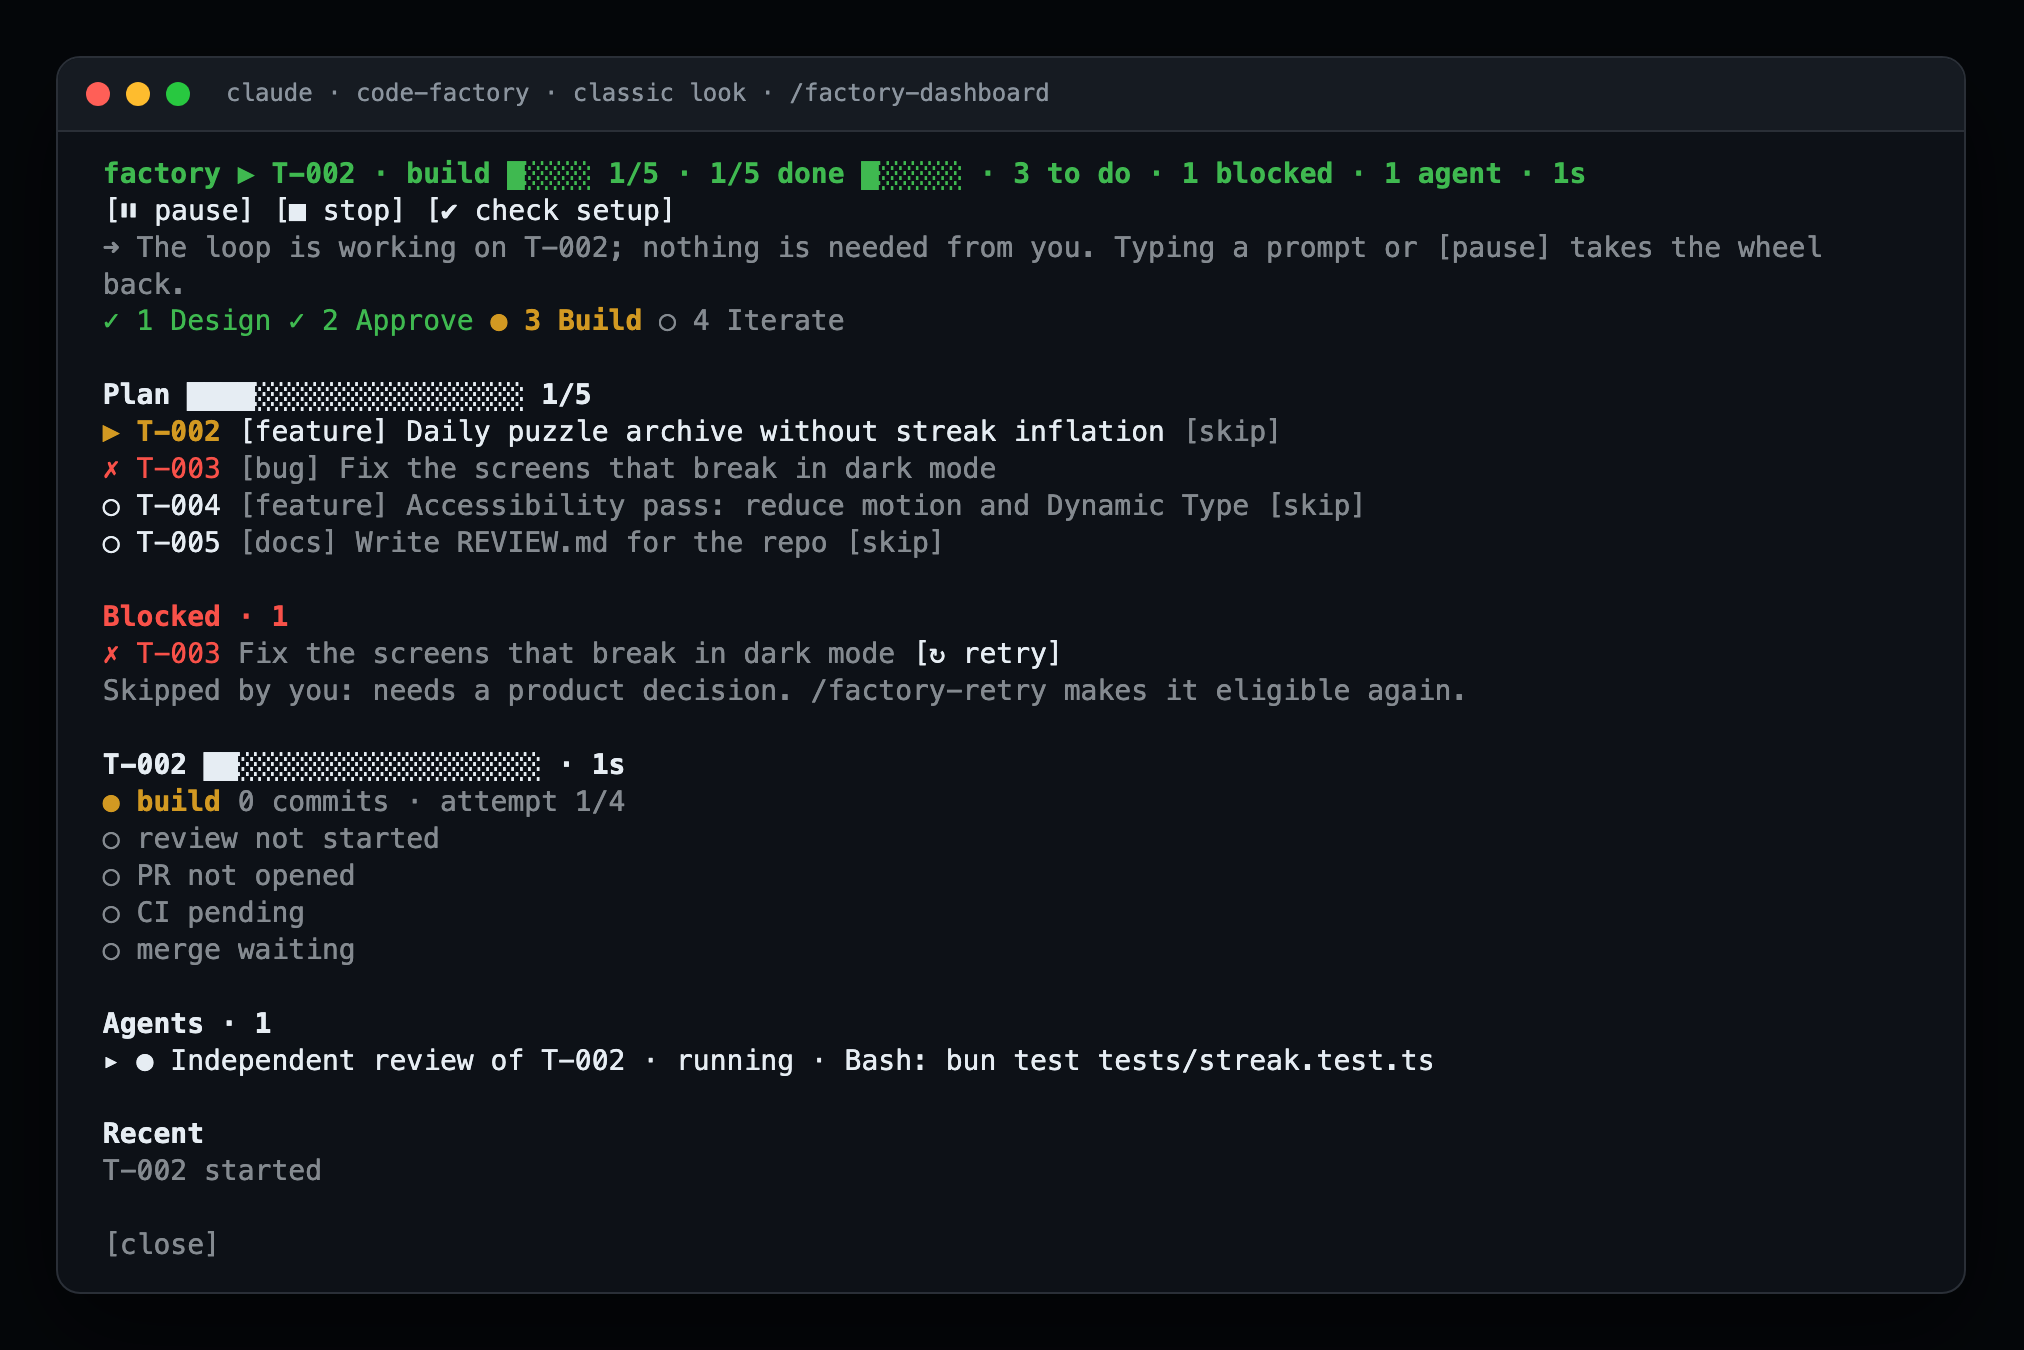
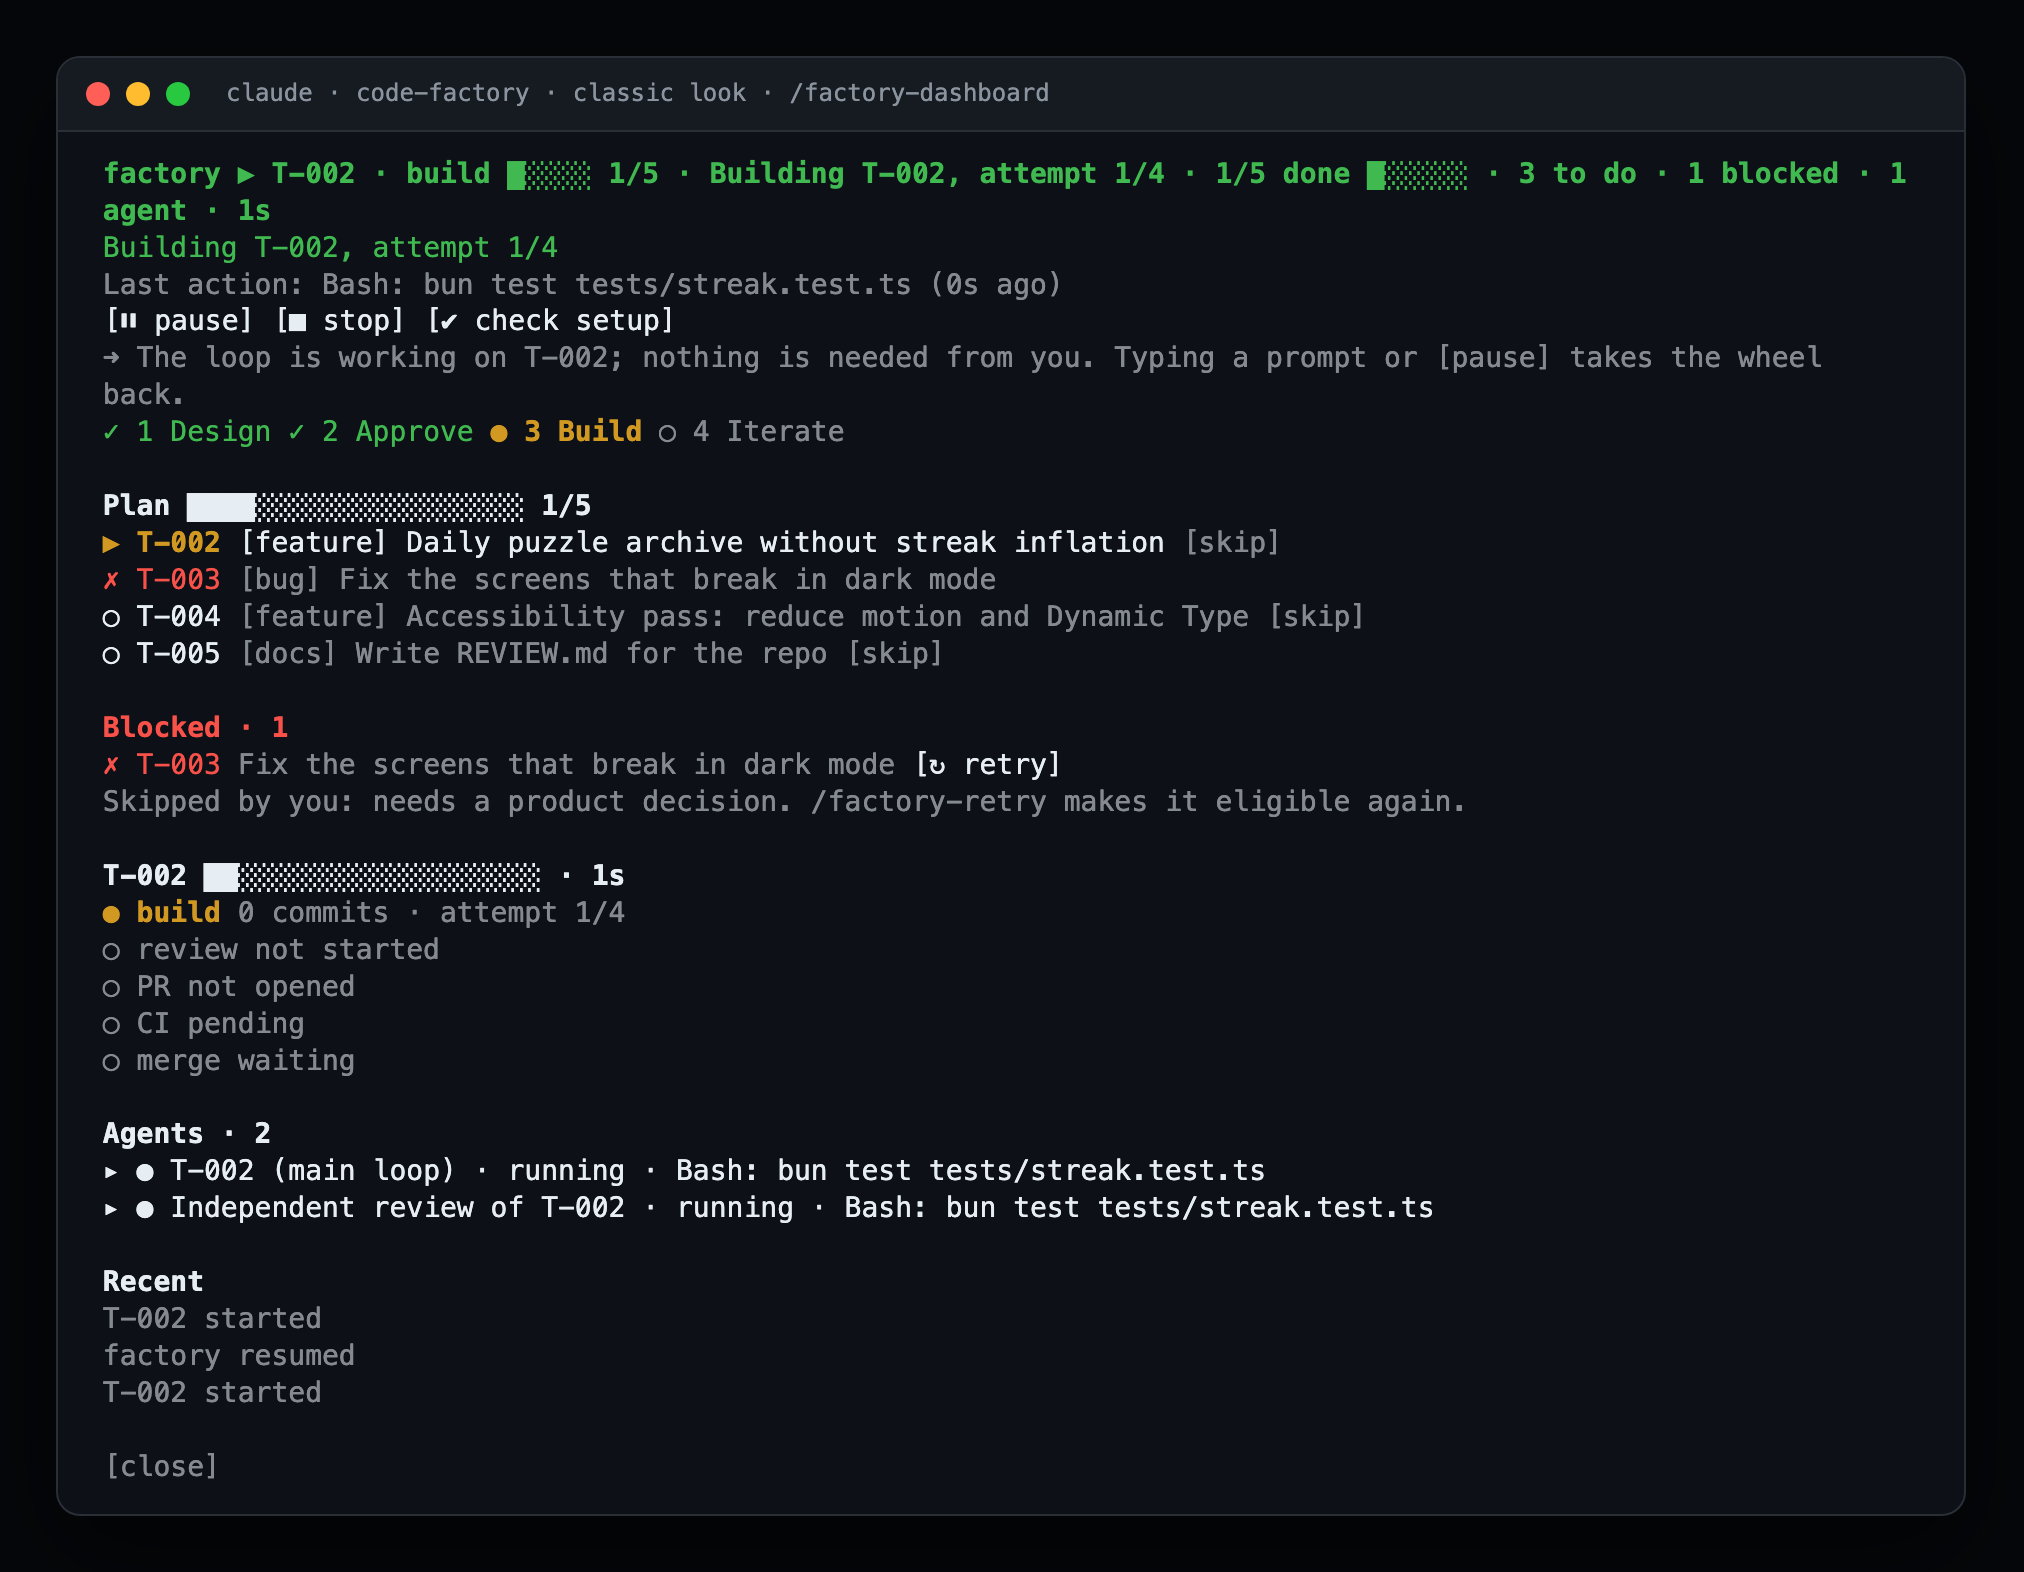
T-008: regenerate the README screenshots (0.4.8)
demo-capture.ts mounts a scene per state (running, held, stuck), driving a real factory turn and a 5-minute clock advance, and asserts in the demo test copy that the now line, last-action line, hold line and stuck line appear in each found element tree. New images: band-hold, band-stuck, pane-hold, pane-stuck; the other seven are regenerated from current code (30x12 Vox face). demo-shots.sh reads test output from a file (a pipe interleaved long lines and truncated a scene). README captions and Vox paragraph describe the now line, the why-idle line and the pointer gaze. Version 0.4.8 with CHANGELOG.

Claude-Session: https://claude.ai/code/session_0172poSrSAJ1RTYWZTePe2NU

diff --git a/scripts/demo-capture.ts b/scripts/demo-capture.ts
@@ -1,4 +1,4 @@
-type Scene = { name: string; component: 'AbovePrompt' | 'Pane'; surface: 'terminal' | 'desktop'; columns: number; look: 'hacker' | 'classic'; press?: string }
+type Scene = { name: string; component: 'AbovePrompt' | 'Pane'; surface: 'terminal' | 'desktop'; columns: number; look: 'hacker' | 'classic'; mode: 'run' | 'stuck' | 'hold'; press?: string }
 
 const DEMO_LOG = [
   { role: 'user', text: 'Review the branch for T-002: streaks must not grow when an old puzzle is replayed', toolUses: [] },
@@ -7,22 +7,55 @@ const DEMO_LOG = [
   { role: 'assistant', text: '', toolUses: [{ tool: 'Bash', input: { command: 'bun test tests/streak.test.ts' }, text: '12 pass, 0 fail' }] },
 ]
 
+const DEMO_MAIN = [{ role: 'assistant', text: '', toolUses: [{ tool: 'Bash', input: { command: 'bun test tests/streak.test.ts' }, text: '12 pass, 0 fail' }] }]
+
 const SCENES: Scene[] = [
-  { name: 'band-hacker', component: 'AbovePrompt', surface: 'terminal', columns: 130, look: 'hacker' },
-  { name: 'band-classic', component: 'AbovePrompt', surface: 'terminal', columns: 130, look: 'classic' },
-  { name: 'pane-hacker', component: 'Pane', surface: 'terminal', columns: 110, look: 'hacker' },
-  { name: 'pane-classic', component: 'Pane', surface: 'terminal', columns: 110, look: 'classic' },
-  { name: 'pane-agent', component: 'Pane', surface: 'terminal', columns: 110, look: 'hacker', press: 'agent-rev1' },
-  { name: 'pane-desktop', component: 'Pane', surface: 'desktop', columns: 110, look: 'hacker' },
+  { name: 'band-hacker', component: 'AbovePrompt', surface: 'terminal', columns: 130, look: 'hacker', mode: 'run' },
+  { name: 'band-classic', component: 'AbovePrompt', surface: 'terminal', columns: 130, look: 'classic', mode: 'run' },
+  { name: 'band-hold', component: 'AbovePrompt', surface: 'terminal', columns: 130, look: 'hacker', mode: 'hold' },
+  { name: 'band-stuck', component: 'AbovePrompt', surface: 'terminal', columns: 130, look: 'hacker', mode: 'stuck' },
+  { name: 'pane-hacker', component: 'Pane', surface: 'terminal', columns: 110, look: 'hacker', mode: 'run' },
+  { name: 'pane-classic', component: 'Pane', surface: 'terminal', columns: 110, look: 'classic', mode: 'run' },
+  { name: 'pane-agent', component: 'Pane', surface: 'terminal', columns: 110, look: 'hacker', mode: 'run', press: 'agent-rev1' },
+  { name: 'pane-desktop', component: 'Pane', surface: 'desktop', columns: 110, look: 'hacker', mode: 'run' },
+  { name: 'pane-hold', component: 'Pane', surface: 'terminal', columns: 110, look: 'hacker', mode: 'hold' },
+  { name: 'pane-stuck', component: 'Pane', surface: 'terminal', columns: 110, look: 'hacker', mode: 'stuck' },
 ]
+
+const NOW = /Building T-002, attempt 1\/\d+/
+const LAST = /Last action: Bash: bun test tests\/streak\.test\.ts/
+const STUCK = /no progress for 5 min: wait, or \/factory-pause/
+const HOLD = [/1 item blocked: T-003/, /\/factory-retry T-003/]
+
+function expected(s: Scene): RegExp[] {
+  if (s.mode === 'hold') return HOLD
+  const pane = s.component === 'Pane' && !s.press
+  if (s.mode === 'stuck') return pane ? [NOW, LAST, STUCK] : [NOW, STUCK]
+  return pane ? [NOW, LAST] : [NOW]
+}
 
 for (const s of SCENES) {
   test(`capture ${s.name}`, async ($, on) => {
-    fixture($, on, { blocked: ['T-003'], agents: [REVIEWER], messages: { rev1: DEMO_LOG }, store: { 'ui/theme': { name: s.look } }, claudeTheme: 'dark' })
-    await $.command.run({ command: 'factory-status' } as never)
+    const running = s.mode !== 'hold'
+    const clock = fixture($, on, { blocked: ['T-003'], agents: [REVIEWER], messages: { rev1: DEMO_LOG, main: DEMO_MAIN }, store: { 'ui/theme': { name: s.look } }, claudeTheme: 'dark', autopilot: false, persist: true })
+    on('prompt.submit', (_: unknown, e: { text: string }) => ({ text: e.text }))
+    on('prompt.compose', () => ({ sections: [] }))
+    on('turn.start', (_: unknown, e: { turnId: string }) => ({ turnId: e.turnId }))
+    on('tool.call', () => ({ result: 'ran', text: 'ran' }))
     await $.command.run({ command: 'factory-theme' } as never)
+    if (running) {
+      await $.command.run({ command: 'factory-start' } as never)
+      await clock.advance(1000)
+      await $.turn.start({ turnId: 't1', text: 'CODE FACTORY: work item' } as never)
+      await $.tool.call({ tool: 'Read', file_path: '/work/a.ts' })
+      if (s.mode === 'stuck') await clock.advance(5 * 60000 + 2000)
+    }
+    await $.command.run({ command: 'factory-status' } as never)
     const ui = await $.ui.mount({ plugin: 'code-factory', surface: s.surface, component: s.component, ...(s.component === 'Pane' ? { requestId: 'factory' } : {}), props: { hasSurvey: false, bodyColumns: s.columns } } as never)
     if (s.press) await ui.press({ key: s.press })
+    for (const re of expected(s)) {
+      expect(await ui.find({ text: re }), `${s.name} lacks ${re}`).toBeDefined()
+    }
     const root = await ui.find({ type: 'Box' })
     await ui.unmount()
     expect(false, `DEMO-SCENE ${JSON.stringify({ ...s, root })}`).toBe(true)

diff --git a/scripts/demo-render.ts b/scripts/demo-render.ts
@@ -124,6 +124,10 @@ const TITLES: Record<string, string> = {
   'pane-hacker': 'claude · code-factory · hacker look · /factory-dashboard',
   'pane-classic': 'claude · code-factory · classic look · /factory-dashboard',
   'pane-agent': 'claude · code-factory · hacker look · pressing an agent shows what it is doing',
+  'band-hold': 'claude · code-factory · hacker look · the loop is held: why, and the next command',
+  'band-stuck': 'claude · code-factory · hacker look · five quiet minutes: the stuck warning',
+  'pane-hold': 'claude · code-factory · hacker look · /factory-dashboard while the loop is held',
+  'pane-stuck': 'claude · code-factory · hacker look · /factory-dashboard with the stuck warning',
   'pane-desktop': 'Claude desktop · code-factory · hacker look · factory pane',
 }
 

diff --git a/README.md b/README.md
@@ -34,7 +34,7 @@ for how each one works.
 ```
 
 <p align="center">
-  <img src="docs/img/pane-hacker.png" alt="The code-factory dashboard in the hacker look: Vox the mascot, the plan, a blocked item, the current item's pipeline and a running review agent" width="760">
+  <img src="docs/img/pane-hacker.png" alt="The code-factory dashboard in the hacker look: Vox the mascot, the now line, the plan, a blocked item, the current item's pipeline and a running review agent" width="760">
 </p>
 
 > **Status: early.** code-factory uses Claude Code's plugin hooks module, an API
@@ -262,15 +262,32 @@ This section is Claude Code only. In OpenCode and Codex, `/factory-status` and
 
 The hacker look, with its mascot Vox, is the default. `/factory-theme classic`
 switches to the plain look and `/factory-theme hacker` brings it back; the choice
-is yours alone. The band in both looks:
+is yours alone. The band in both looks. A running loop says what it is doing in one plain
+line (`Building T-002, attempt 1/4`, `Reviewing T-002, round 1/3`, `PR #12 open: waiting for CI`):
 
 ![The band above the prompt in the hacker look](docs/img/band-hacker.png)
 ![The band above the prompt in the classic look](docs/img/band-classic.png)
 
-The dashboard in the hacker look and in the classic look:
+A loop that is not running says why and what to do next, never just "stopped":
+
+![The band while the loop is held: why it is idle and the next command](docs/img/band-hold.png)
+
+After five minutes without a sign of life from the running turn, a warning appears
+under the now line (it names the minutes and offers `/factory-pause`):
+
+![The band with the stuck warning after five quiet minutes](docs/img/band-stuck.png)
+
+The dashboard in the hacker look and in the classic look. Under the now line it shows
+the main agent's last action and how long ago it happened:
 
 ![The dashboard in the hacker look](docs/img/pane-hacker.png)
 ![The dashboard in the classic look](docs/img/pane-classic.png)
+
+The same dashboard while the loop is held (the why-idle line and the next command) and
+with the stuck warning:
+
+![The dashboard while the loop is held](docs/img/pane-hold.png)
+![The dashboard with the stuck warning](docs/img/pane-stuck.png)
 
 Press an agent in the band or the dashboard to see what it is doing, task, words and tool calls with their results:
 
@@ -282,16 +299,23 @@ On the Claude desktop app the hacker look draws the pane as a dark console, with
 
 ### Vox
 
-The hacker look, the default since 0.4.0, has a mascot. Vox shows the loop's state at a glance and, on
-the terminal, animates it (a blink every few seconds, a two-hop celebration
+The hacker look, the default since 0.4.0, has a mascot. Vox shows the loop's state at a glance, next to
+the now line (what the loop is doing) or, when it is not running, the why-idle line (why it stopped and
+the next command). On the terminal it animates (a blink every few seconds, a two-hop celebration
 when the plan is done, a shake once when something blocks). `/factory-theme motion off` keeps it still.
 The face needs a dashboard pane at least 60 columns wide (the animated one, 70),
 a UTF-8 locale and color; with `NO_COLOR` set, or in the classic look, there is no mascot.
 
+Vox follows the mouse pointer: while the pointer is over the face in the dashboard pane, its eyes
+look at it (terminal, 70 columns or more, hacker look, and a terminal that reports the pointer, such as
+kitty, Ghostty, iTerm2, WezTerm or foot; tmux does not). Plugins cannot read the prompt cursor, so Vox cannot
+follow it. A pointer cannot be captured in a still image, so none of the pictures here show the gaze.
+
 ![Vox in its seven states: working, reviewing, done, paused, blocked, budget reached and idle](docs/img/vox-states.png)
 
 These images are renders of the plugin's own output: `scripts/demo-shots.sh`
-mounts the real band and dashboard against a made-up five-item plan, draws the
+mounts the real band and dashboard against a made-up five-item plan (running, held and
+silent for five minutes), draws the
 captured element trees as a terminal window in headless Chrome, and saves the
 PNGs to `docs/img/`. They are not captures of a live session, so spacing and
 fonts differ a little from your terminal.

diff --git a/.factory/todo.md b/.factory/todo.md
@@ -55,7 +55,7 @@
 - depends: T-006
 
 ## T-008 [docs] Regenerate the README screenshots
-- status: todo
+- status: done
 - version: 0.4.8
 - how: Update scripts/demo-capture.ts and scripts/demo-todo.md so the scenes show the new now line, the hold line with its next action, the stuck warning and the bigger face (no pointer scene: a pointer cannot be captured). Run scripts/demo-shots.sh (macOS, Chrome, bun, python3) to regenerate docs/img/*.png, update the README image captions and the "Vox" paragraph to describe the now line, the why-idle line and that Vox follows the mouse pointer over the pane (terminal, 70+ columns, hacker look; the prompt cursor is not available to plugins), and add the 0.4.8 CHANGELOG section. If bun or Chrome is missing, mark the item blocked with the missing tool in the note rather than committing partial images.
 - accept: docs/img/band-hacker.png, band-classic.png, pane-hacker.png, pane-classic.png, pane-agent.png, pane-desktop.png and vox-states.png are regenerated from the current code and committed, README text matches what the images show, and scripts/check-version.sh passes at 0.4.8. No capture file is placed under tests/.

diff --git a/CHANGELOG.md b/CHANGELOG.md
@@ -7,6 +7,20 @@ minor version may change behavior).
 
 ## [Unreleased]
 
+## [0.4.8] - 2026-11-23
+
+### Changed
+
+- The README screenshots in `docs/img/` are regenerated from the current code: the now line,
+  the last-action line, the hold line with its next command, the stuck warning and the
+  30 by 12 Vox face. New pictures: `band-hold`, `band-stuck`, `pane-hold` and `pane-stuck`.
+- The README describes the now line, the why-idle line and that Vox follows the mouse pointer
+  over the pane (terminal, 70 columns or more, hacker look; the prompt cursor is not available
+  to plugins).
+- `scripts/demo-capture.ts` has a scene per state (running, held, stuck) and asserts that the now
+  line, the hold line and the stuck line appear in each found element tree.
+  `scripts/demo-shots.sh` reads the test output from a file, because a pipe interleaved long lines.
+
 ## [0.4.7] - 2026-11-22
 
 ### Changed
